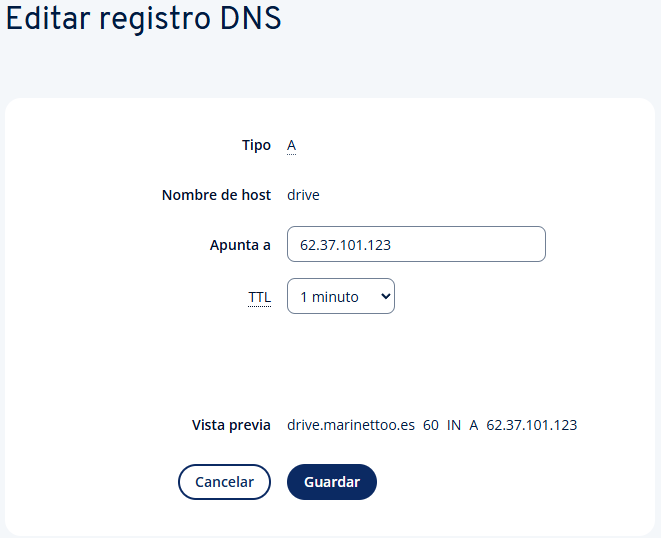
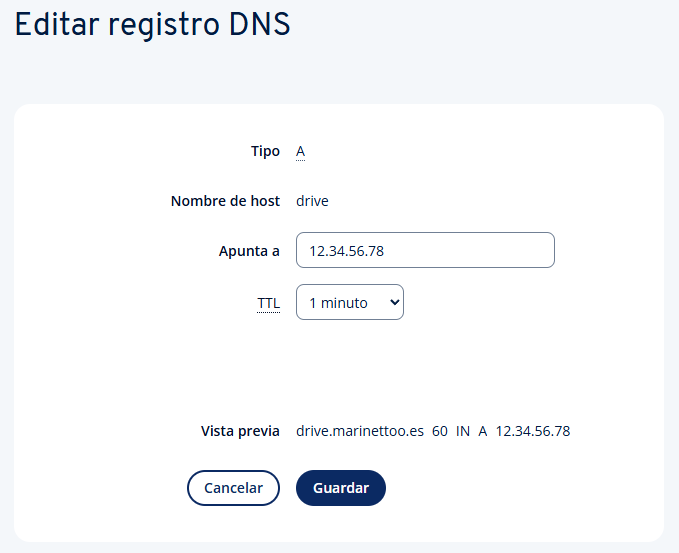
Added README.md

diff --git a/README.md b/README.md
@@ -1,0 +1,66 @@
+# DNS Redirector
+This project allows us to create a Flask server that redirects DNS queries to a specified IP address.
+![Demonstration of DNS redirection](IMAGES/Redirector.gif)
+
+## Installation
+1. Clone the repository
+2. Install the required packages
+   ```bash
+   pip install -r requirements.txt
+   ```
+
+## Usage
+1. Run the Flask server 
+   ```bash
+   python app.py
+   ```
+2. Configure your domain's DNS settings to point to the server's IP address. 
+   Add an A record for your domain (or subdomain) pointing to the server's IP address. For the same subdomain, add a TXT record containing the redirect URL.
+![IONOS A config](IMAGES/A config.png)
+![IONOS TXT config](IMAGES/TXT config.png)
+
+3. Execute a DNS query to test the redirection
+   ```bash
+   dig @your_server_ip your_domain TXT
+   ```
+
+**Note:** In the example below, `12.34.56.78` is a placeholder IP address. Will appear replaced with your actual server IP.
+
+Example:
+```bash
+user@device:~ $ dig drive.marinettoo.es
+
+; <<>> DiG 9.20.15-1~deb13u1-Debian <<>> drive.marinettoo.es
+;; global options: +cmd
+;; Got answer:
+;; ->>HEADER<<- opcode: QUERY, status: NOERROR, id: 55159
+;; flags: qr rd ra; QUERY: 1, ANSWER: 1, AUTHORITY: 0, ADDITIONAL: 1
+
+;; OPT PSEUDOSECTION:
+; EDNS: version: 0, flags:; udp: 512
+;; QUESTION SECTION:
+;drive.marinettoo.es.           IN      A
+
+;; ANSWER SECTION:
+drive.marinettoo.es.    60      IN      A       12.34.56.78 (example IP)
+
+;; WHEN: Mon Nov 03 11:40:59 CET 2023
+;; SERVER: 192.168.1.1#53(192.168.1.1) (UDP)
+;; WHEN: Mon Nov 03 11:40:59 CET 2025
+;; MSG SIZE  rcvd: 64
+```
+If you see the IP address in the ANSWER SECTION, the redirection is working correctly.
+
+4. Open a web browser and navigate to the redirected URL.
+```bash
+name.domain.com
+```
+It will redirect you to the URL specified in the TXT record of your domain's DNS settings.
+
+5. Adding more subdomains
+To add more subdomains for redirection, simply create additional A and TXT records in your domain's DNS settings for each subdomain you want to redirect. Each record should contain the URL you want that subdomain to redirect to. 
+![NOTION A CONFIG](IMAGES/Notion A config.png)
+![NOTION TXT CONFIG](IMAGES/Notion TXT config.png)
+
+### Licence
+This project is open source and its use is free.
